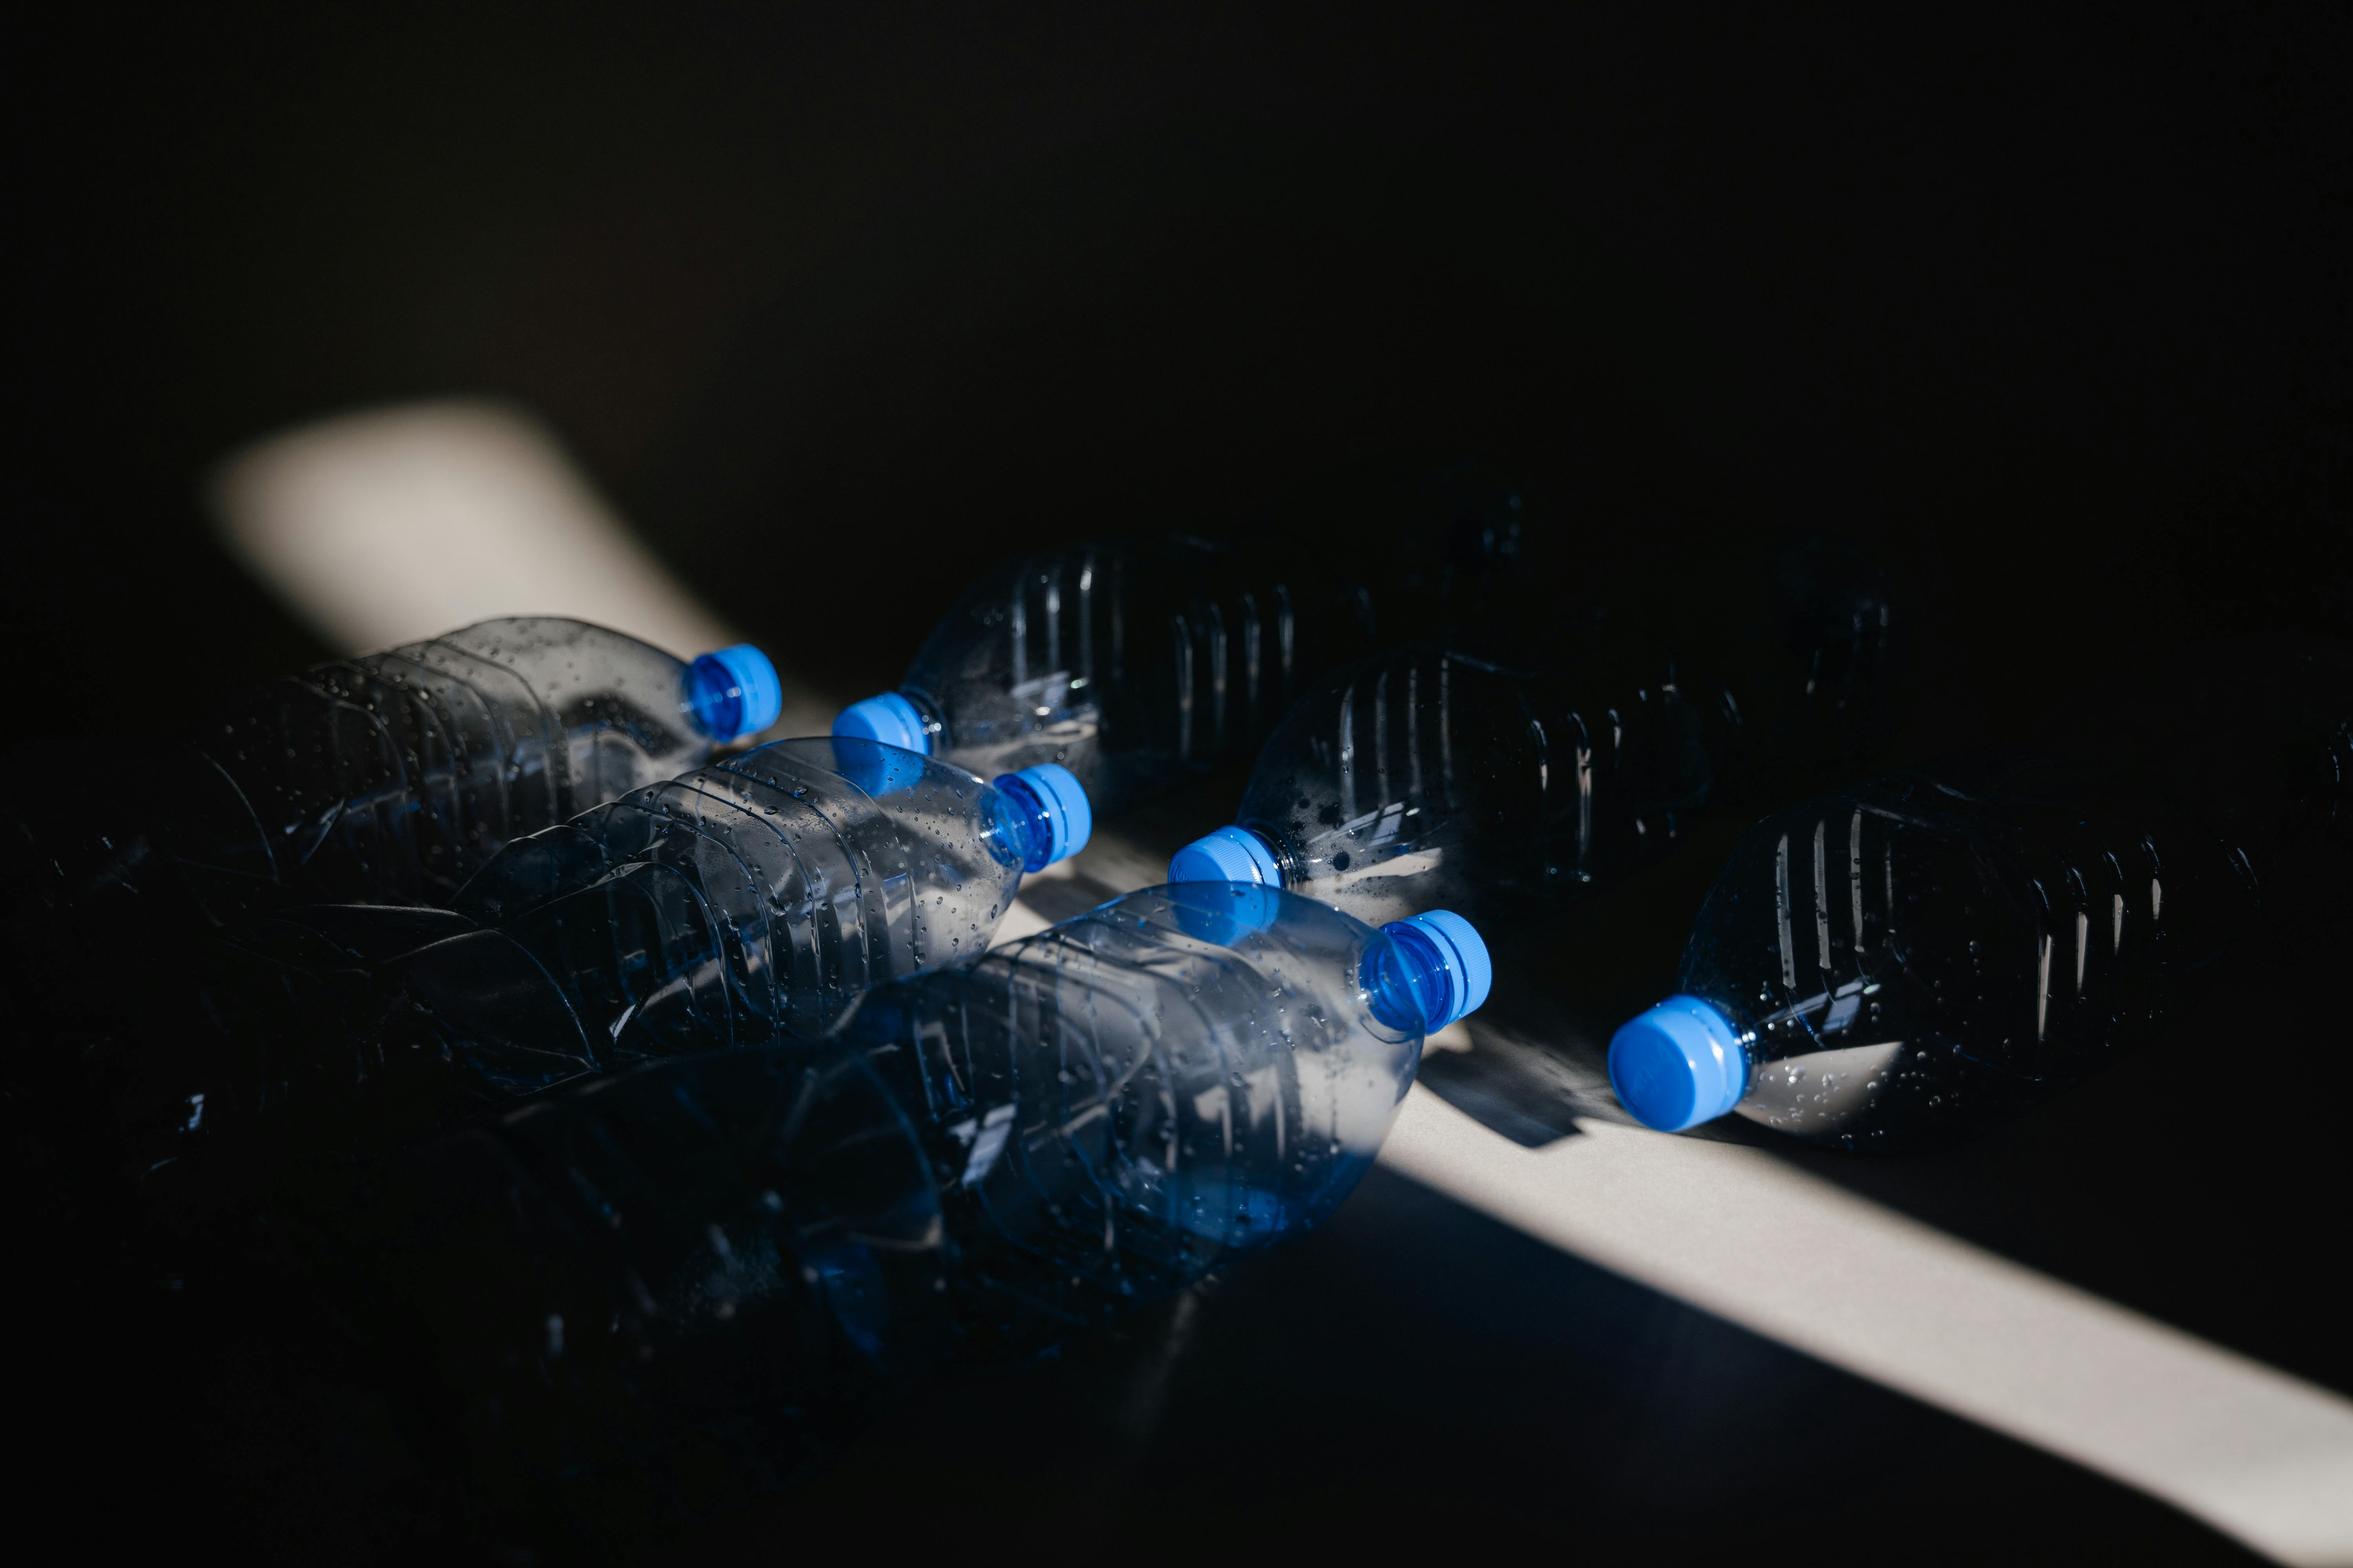
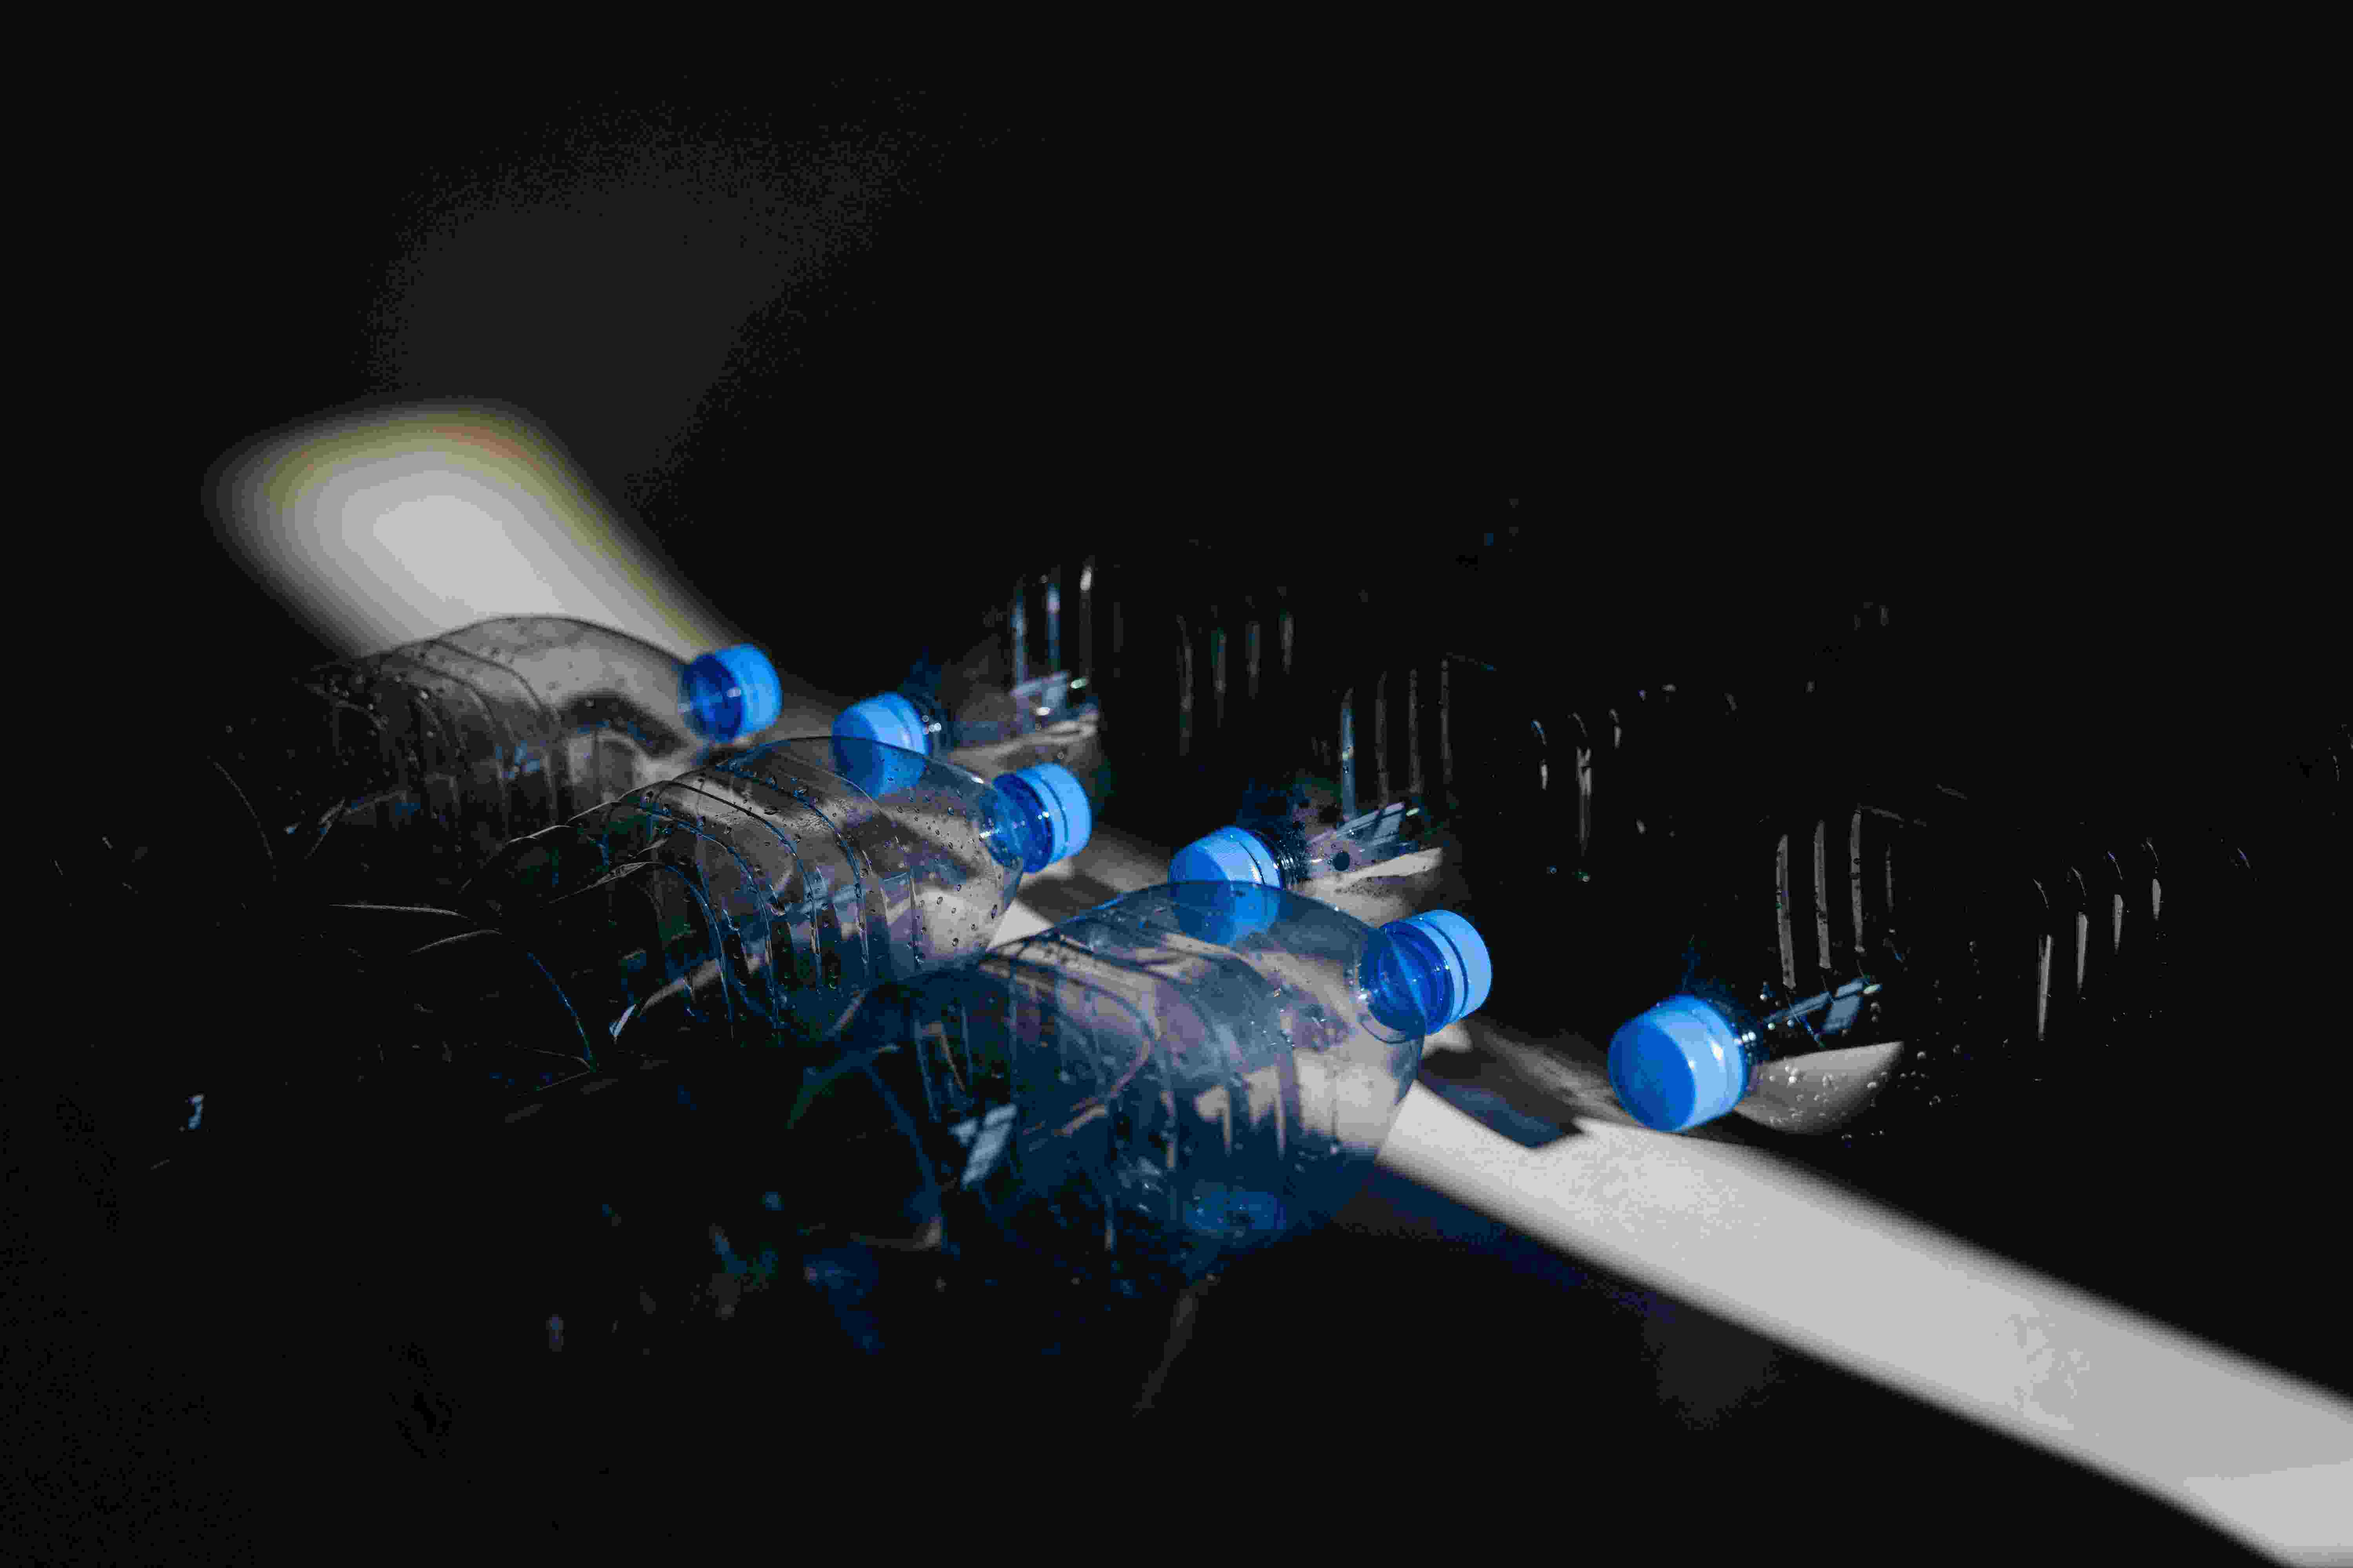
shrinking static images size for better performance

diff --git a/src/components/activities-section/activities-section.component.tsx b/src/components/activities-section/activities-section.component.tsx
@@ -15,7 +15,7 @@ const ActivitiesSection = () => {
                 <div className="flex flex-col gap-12">
                     <div className="grid grid-cols-1 lg:grid-cols-2 gap-4 items-start justify-start">
                         <div className="px-8 w-full aspect-square max-h-[60svh] overflow-hidden rounded-sm">
-                            <img src={ActivitImage1} className="w-full h-full object-cover object-center" alt="" />
+                            <img loading="lazy" src={ActivitImage1} className="w-full h-full object-cover object-center" alt="" />
                         </div>
                         <div className="flex flex-col gap-4 px-6 py-4">
                             <h3 className="text-xl font-bold w-full text-left uppercase">Recyclage des déchets plastiques</h3>
@@ -29,12 +29,12 @@ const ActivitiesSection = () => {
                             <p className="text-sm text-dark w-full text-left">Nous formons les jeunes et les femmes aux techniques durables de recyclage, créant ainsi des opportunités d'emploi tout en protégeant l'environnement.</p>
                         </div>
                         <div className="px-8 w-full aspect-square max-h-[60svh] overflow-hidden rounded-sm">
-                            <img src={ActivitImage2} className="w-full h-full object-cover object-center" alt="" />
+                            <img loading="lazy" src={ActivitImage2} className="w-full h-full object-cover object-center" alt="" />
                         </div>
                     </div>
                     <div className="grid grid-cols-1 lg:grid-cols-2 gap-4 items-start justify-start">
                         <div className="px-8 w-full aspect-square max-h-[60svh] overflow-hidden rounded-sm">
-                            <img src={ActivitImage3} className="w-full h-full object-cover object-center" alt="" />
+                            <img loading="lazy" src={ActivitImage3} className="w-full h-full object-cover object-center" alt="" />
                         </div>
                         <div className="flex flex-col gap-4 px-6 py-4">
                             <h3 className="text-xl font-bold w-full text-left uppercase">Évacuation des déchets ménagers et urbains</h3>
@@ -46,7 +46,7 @@ const ActivitiesSection = () => {
                     {
                         images.map((image, index) =>( 
                             <ActivityImageWrapper className="flex opacity-90" key={index}>
-                                <img src={image} className="" alt="" />
+                                <img loading="lazy" src={image} className="" alt="" />
                             </ActivityImageWrapper>
                          ))
                     }

diff --git a/src/components/product-card/product-card.component.tsx b/src/components/product-card/product-card.component.tsx
@@ -13,7 +13,7 @@ const ProductCard = ({ product, className = '', onAddToCart }: ProductCardProps)
     return (
         <div className={`group relative bg-white rounded-lg shadow-md overflow-hidden hover:shadow-lg hover:scale-[1.02] cursor-pointer shadow-dark-transparent p-[2px]   ${className}`}>
             <div className="aspect-square bg-gray-transparent rounded-t-lg overflow-hidden border-gray-transparent border-[1px]">
-                <img
+                <img loading="lazy"
                     src={product.image}
                     alt={product.name}
                     className="w-full h-full object-cover object-center"
@@ -26,7 +26,7 @@ const ProductCard = ({ product, className = '', onAddToCart }: ProductCardProps)
                 <p className="text-sm font-normal text-slate-900 mb-2 line-clamp-3">{product.description}</p>
                 <div className="flex items-center justify-start gap-4 mb-4">
                     <div className="rounded-full aspect-square w-[1.5rem] overflow-hidden">
-                        <img src={product.owner.image} className="object-cover object-center w-full h-full" alt="" />
+                        <img loading="lazy" src={product.owner.image} className="object-cover object-center w-full h-full" alt="" />
                     </div>
                     <span className="text-sm font-bold text-gray text-left">{product.owner.name}</span>
                 </div>

diff --git a/src/components/article-card/arcticle-card.component.tsx b/src/components/article-card/arcticle-card.component.tsx
@@ -9,7 +9,7 @@ type ArticleCardProps = {
 const ArticleCard = ({ className, article: { image, title, description, published, views } }: ArticleCardProps) => {
     return (
         <div className={`${className} flex flex-col items-start justify-start p-[2px] rounded-lg border border-gray shadow-sm shadow-dark-transparent overflow-hidden pb-0` }>
-            <div className="w-full h-[40%] mb-4 rounded-lg overflow-hidden"> <img src={image} alt="Article" className="w-full h-full object-cover object-center" /> </div>
+            <div className="w-full h-[40%] mb-4 rounded-lg overflow-hidden"> <img loading="lazy" src={image} alt="Article" className="w-full h-full object-cover object-center" /> </div>
 
             <div className="flex flex-col items-center justify-start gap-3 p-4 -mb-24 md:-mb-12">
                 <h3 className="text-lg font-semibold text-left w-full line-clamp-2 ">{title}</h3>

diff --git a/src/constants/data.tsx b/src/constants/data.tsx
@@ -4,11 +4,11 @@ import { FaRecycle, FaTree } from "react-icons/fa";
 import { PiHandshake } from "react-icons/pi";
 import { SiTarget } from "react-icons/si";
 import { TbBulb } from "react-icons/tb";
-import ActivityImage1 from "@/assets/products/product-1.jpg"
-import ActivityImage2 from "@/assets/products/product-2.jpg"
-import ActivityImage3 from "@/assets/products/product-3.jpg"
-import ActivityImage4 from "@/assets/products/product-4.jpg"
-import ActivityImage5 from "@/assets/products/product-5.jpg"
+import ActivityImage1 from "@/assets/products-min/product-1.jpg"
+import ActivityImage2 from "@/assets/products-min/product-2.jpg"
+import ActivityImage3 from "@/assets/products-min/product-3.jpg"
+import ActivityImage4 from "@/assets/products-min/product-4.jpg"
+import ActivityImage5 from "@/assets/products-min/product-5.jpg"
 
 
 

diff --git a/src/components/team-member-card/team-member-card.component.tsx b/src/components/team-member-card/team-member-card.component.tsx
@@ -10,7 +10,7 @@ const TeamMemberCard: React.FC<TeamMemberCardProps> = ({ className = "", member,
     return (
         <div className={`${className} flex flex-col items-start justify-center border border-dark-transparent rounded-md px-6 py-4 gap-1 rounded-tl-none rounded-br-none shadow-sm shadow-dark-transparent hover:shadow-md hover: cursor-pointer`} {...rest} >
             <div className="w-full rounded-md rounded-tl-none rounded-br-none overflow-hidden aspect-square p-4">
-                <img src={member.picture} className="w-full h-full object-center object-cover" alt="" />
+                <img loading="lazy" src={member.picture} className="w-full h-full object-center object-cover" alt="" />
             </div>
             <div className="relative flex flex-col justify-center items-center w-full">
 

diff --git a/src/components/footer/footer.component.tsx b/src/components/footer/footer.component.tsx
@@ -11,7 +11,7 @@ const Footer = () => {
             <SectionContainer className="grid grid-cols-1 md:grid-cols-2 lg:flex flex-row justify-between items-start gap-[3rem] md:gap-4 py-8">
                 <div className="flex flex-col items-start justify-start">
                     <Link to={"/"} className="h-[4rem] w-fit inline-block">
-                        <img src={FooterLogoImage} className="h-full object-cover object-center" alt="Logo" />
+                        <img loading="lazy" src={FooterLogoImage} className="h-full object-cover object-center" alt="Logo" />
                     </Link>
                 </div>
                 <div className="flex flex-col gap-4 items-start justify-start">

diff --git a/src/components/top-navbar/top-navbar.component.tsx b/src/components/top-navbar/top-navbar.component.tsx
@@ -28,7 +28,7 @@ const TopNavbar = () => {
     <nav className="h-[5rem] px-8 py-2 flex items-center justify-between fixed top-0 left-0 w-full bg-light-variant backdrop-blur-3xl z-10 border-b border-gray-transparent" >
       <div className="flex justify-between gap-4 items-center w-full">
         <Link to={"/"} className="h-[4rem] w-fit inline-block">
-          <img src={LogoImage} className="h-full object-cover object-center" alt="Logo" />
+          <img loading="lazy" src={LogoImage} className="h-full object-cover object-center" alt="Logo" />
         </Link>
         <div className="flex items-center justify-start">
           <div className="hidden lg:flex items-center justify-center gap-8">

diff --git a/src/components/home-hero/home-hero.component.tsx b/src/components/home-hero/home-hero.component.tsx
@@ -1,7 +1,7 @@
 import  { useState, useEffect, useCallback, TouchEvent } from 'react';
-import image1 from "@/assets/hero/hero-bins-street.jpg"
-import image2 from "@/assets/hero/hero-bottles.jpg"
-import image3 from "@/assets/hero/hero-red-covered-bottles.jpg"
+import image1 from "@/assets/hero-min/hero-bins-street.jpg"
+import image2 from "@/assets/hero-min/hero-bottles.jpg"
+import image3 from "@/assets/hero-min/hero-red-covered-bottles.jpg"
 import { FaAngleLeft, FaAngleRight } from 'react-icons/fa';
 import BaseButton, { buttonType } from '../base-button/base-button.component';
 import { GoArrowUpRight } from 'react-icons/go';
